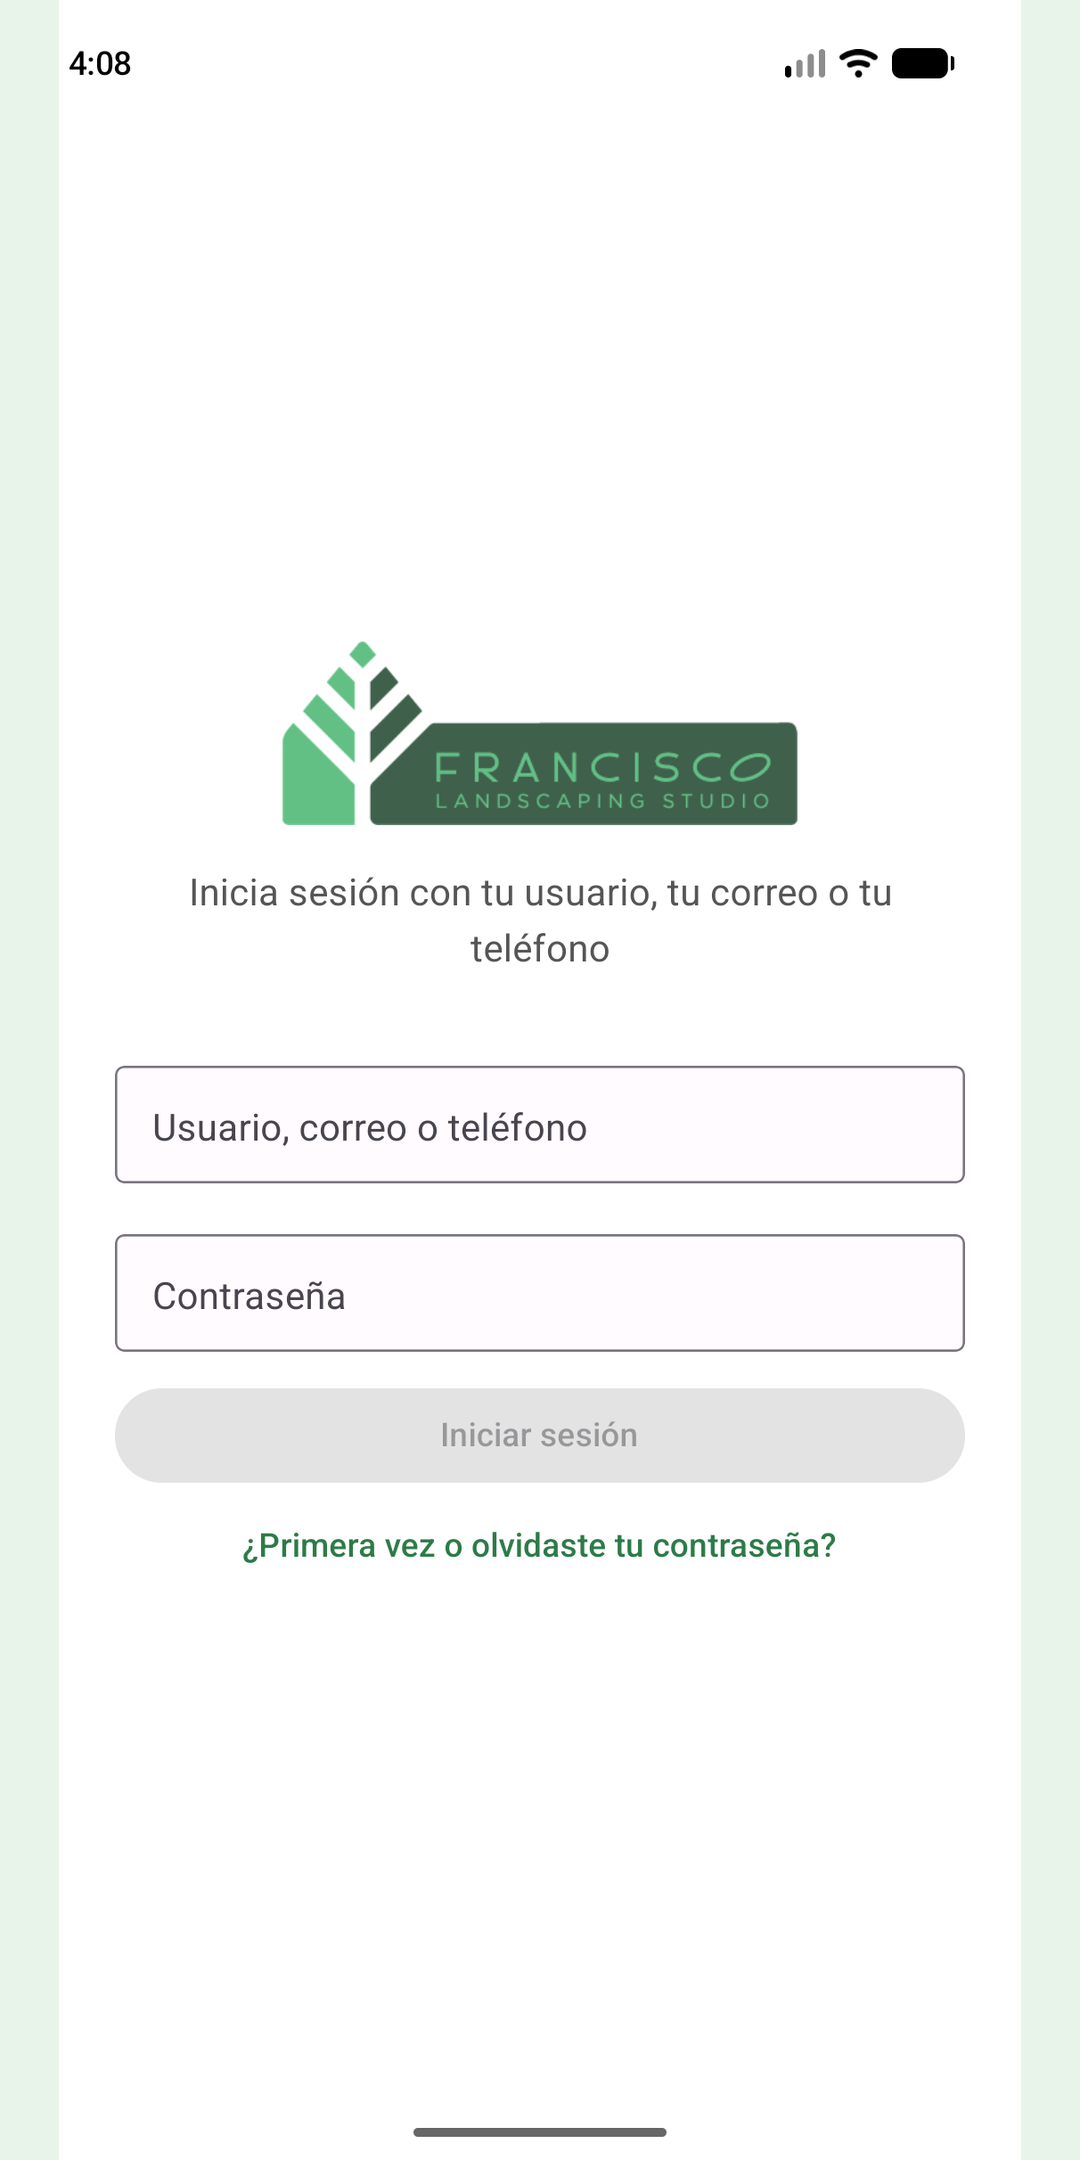
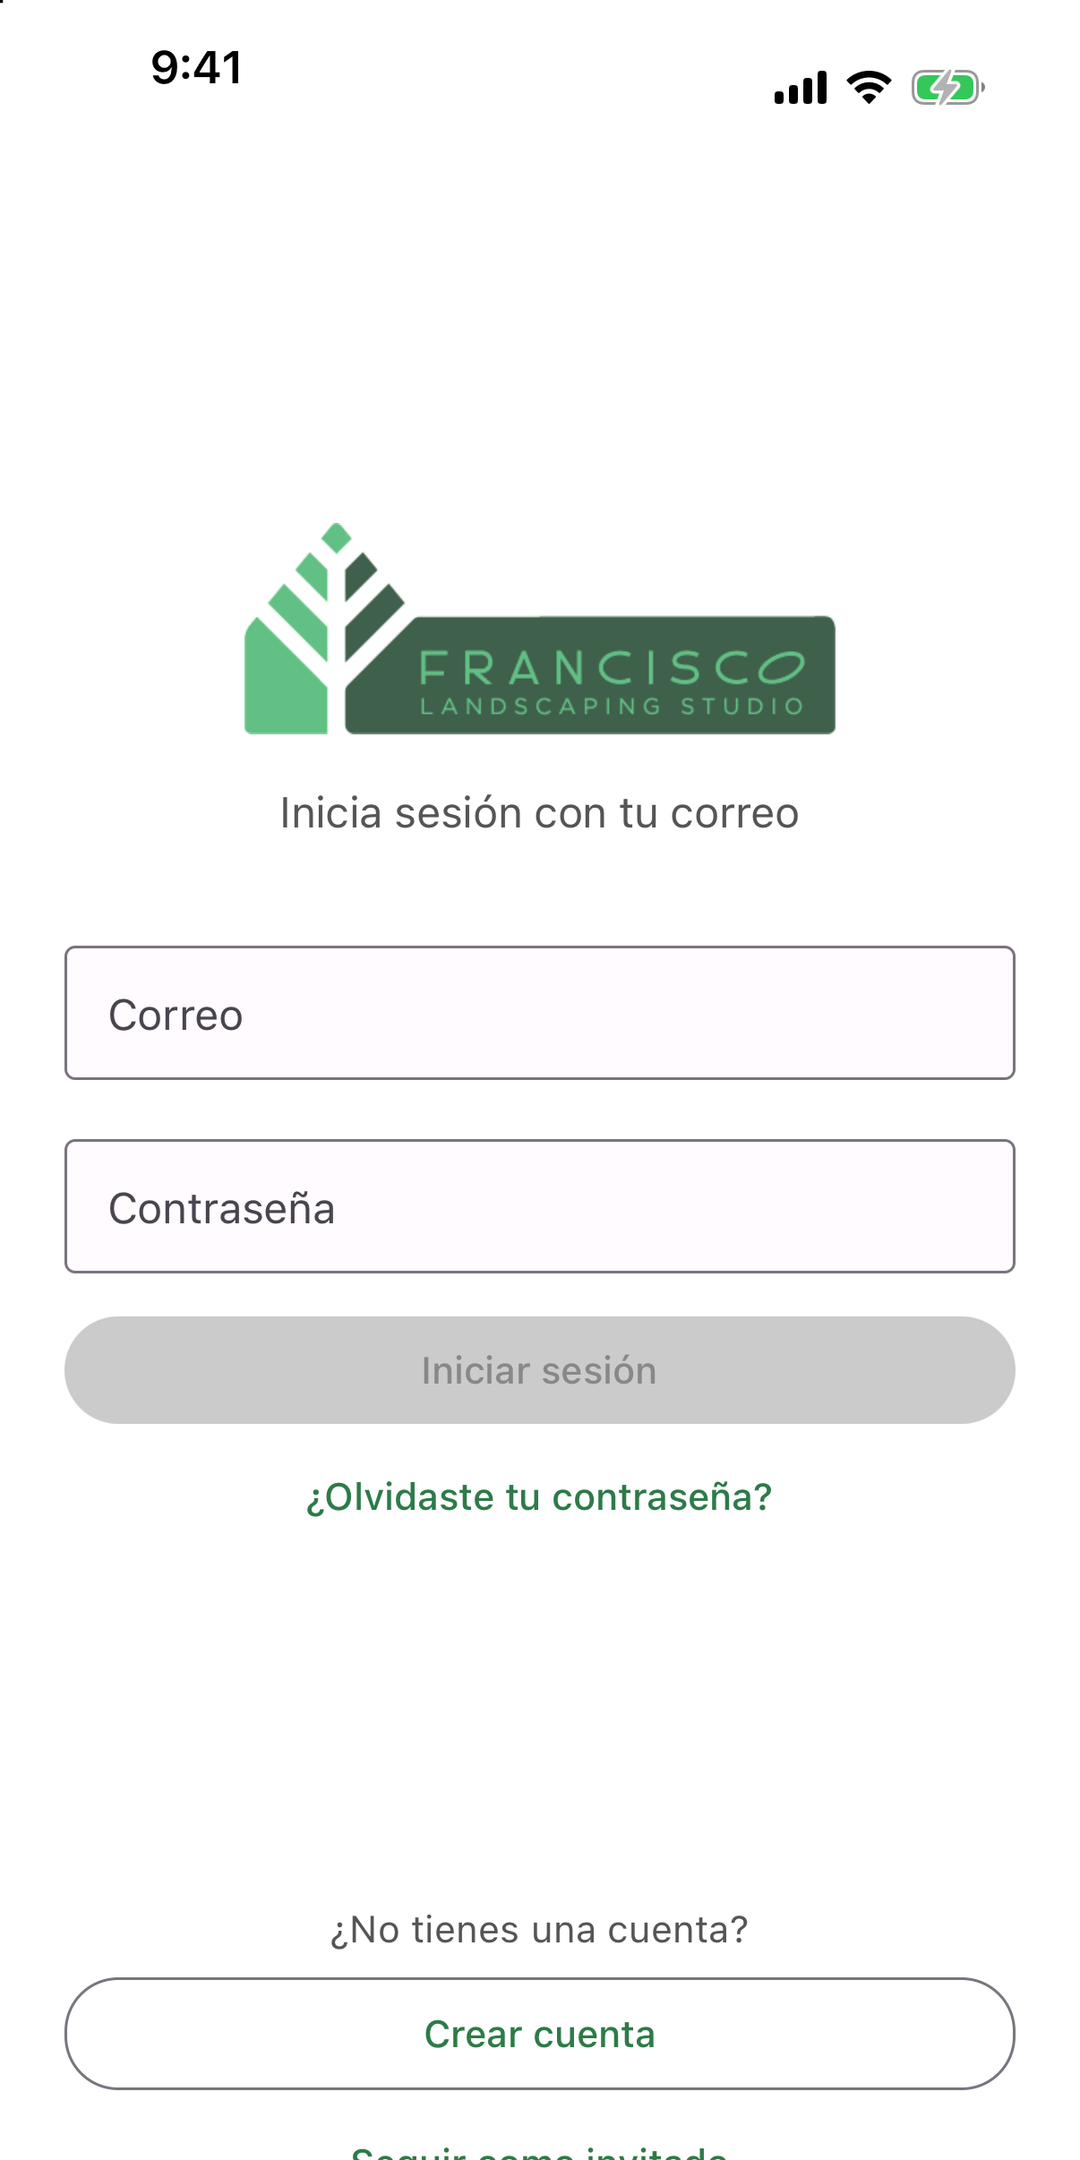
Capturas de la app de clientes: login y Solicitar visita en modo invitado; las de la app unida se van

diff --git a/apps/app-clientes/tienda/textos.md b/apps/app-clientes/tienda/textos.md
@@ -12,14 +12,19 @@ de acá entran.
 
 ## Capturas
 
-- **App Store**: `capturas/ios-6.5/` (1284×2778, el espacio de 6.5" que pide
-  App Store Connect; las de `capturas/ios/` son de 6.9", 1320×2868, por si
-  lo pide después).
-- **Google Play**: `capturas/android/` (1080×2160).
+- **App Store**: `capturas/ios-6.3/` (1206×2622, *iPhone with Dynamic Island
+  (medium display)*, que es lo que acepta ahora App Store Connect).
+- **Google Play**: `capturas/android/` (1080×2160: recortadas por abajo a 2:1,
+  sin margen blanco, que Play toma por «gráficos de marketing»).
 
-Las cinco de iPhone sirven, pero conviene **agregar dos del lado del
-cliente** (el catálogo y la ficha de un producto) y ponerlas primero: es lo que le
-muestra a Apple y a quien busca la app que le sirve a cualquiera.
+Sacadas el 19-oct en modo invitado, sin datos de nadie: el login y *Solicitar
+visita*. Las de la app unida (con pantallas del equipo) se fueron con la
+separación y quedan en el historial de git. **Faltan el catálogo y la ficha de
+un producto**, y no se pueden sacar todavía: el catálogo de producción está
+vacío (`/api/mobile/publico/catalogo` devuelve `items: []` el 19-oct) y el de
+desarrollo no tiene fotos. Se sacan cuando el vivero cargue sus productos con
+foto y precio en producción, apuntando la app del simulador a producción
+(`EXPO_PUBLIC_API_BASE_URL`), que para el invitado solo lee.
 
 ## Comunes
 
